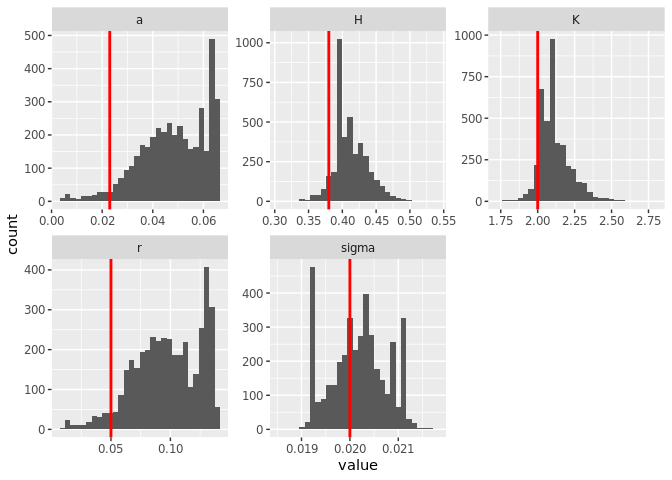
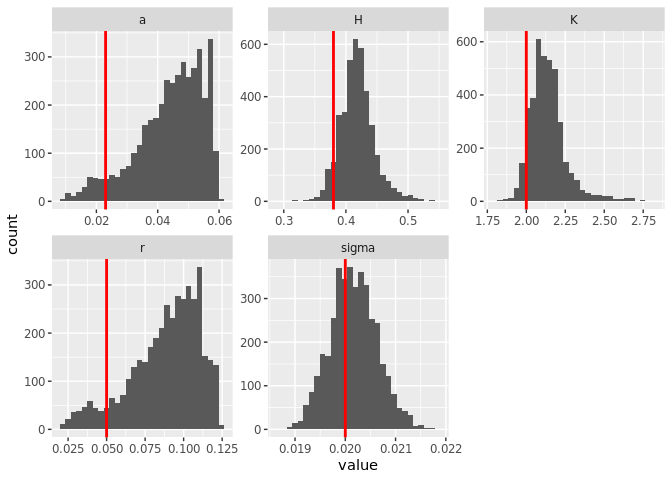
try tensorflow::use_session_with_seed()
Seems to disable GPU

diff --git a/code/greta.md b/code/greta.md
@@ -6,8 +6,8 @@ Carl Boettiger
 ``` r
 library(tidyverse)
 library(greta) # remotes::install_github("greta-dev/greta")
-Sys.setenv("CUDA_VISIBLE_DEVICES" = -1)   # Disable GPU
-set.seed(123456)
+tensorflow::use_session_with_seed(42)
+#set.seed(123456)
 ```
 
 ``` r
@@ -78,7 +78,7 @@ system.time({
 ```
 
     ##    user  system elapsed 
-    ##  92.003  17.660  38.563
+    ##  92.295  17.871  38.647
 
 ``` r
 summary(draws)
@@ -94,20 +94,20 @@ summary(draws)
     ##    plus standard error of the mean:
     ## 
     ##          Mean        SD  Naive SE Time-series SE
-    ## K     2.11730 0.1110670 1.756e-03      7.580e-03
-    ## a     0.04816 0.0132068 2.088e-04      1.443e-03
-    ## H     0.41185 0.0252757 3.996e-04      1.936e-03
-    ## sigma 0.02017 0.0005817 9.197e-06      9.197e-05
-    ## r     0.09783 0.0280878 4.441e-04      3.212e-03
+    ## K     2.13812 0.1208677 1.911e-03      9.658e-03
+    ## a     0.04405 0.0108523 1.716e-04      1.142e-03
+    ## H     0.41827 0.0280719 4.439e-04      2.503e-03
+    ## sigma 0.02016 0.0004642 7.340e-06      1.243e-05
+    ## r     0.08834 0.0225332 3.563e-04      2.756e-03
     ## 
     ## 2. Quantiles for each variable:
     ## 
     ##          2.5%     25%     50%     75%   97.5%
-    ## K     1.94637 2.04079 2.10131 2.16656 2.37777
-    ## a     0.01797 0.03942 0.04925 0.05998 0.06538
-    ## H     0.36778 0.39478 0.40848 0.42761 0.46771
-    ## sigma 0.01925 0.01977 0.02020 0.02058 0.02111
-    ## r     0.03661 0.07805 0.09865 0.12555 0.13604
+    ## K     1.96152 2.06334 2.12108 2.18861 2.46614
+    ## a     0.01758 0.03777 0.04608 0.05269 0.05825
+    ## H     0.37015 0.40158 0.41729 0.43324 0.48367
+    ## sigma 0.01928 0.01986 0.02015 0.02047 0.02111
+    ## r     0.03312 0.07543 0.09274 0.10555 0.12124
 
 ``` r
 #bayesplot::mcmc_trace(draws)
